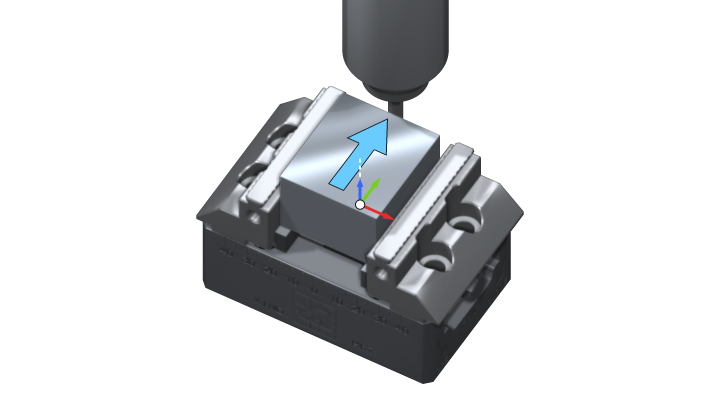
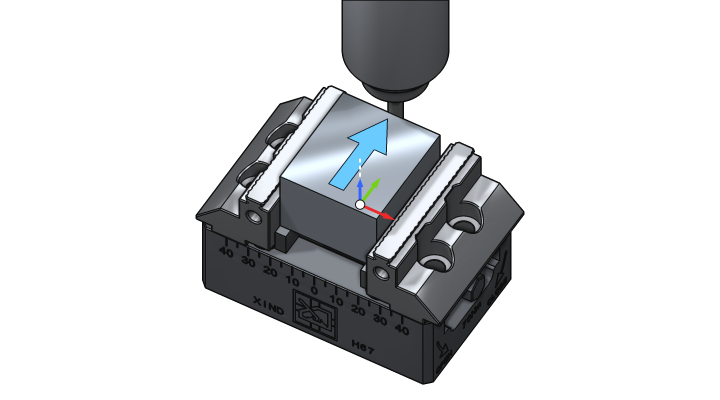
VISE STOP renders: Fusion-style black edge lines
Visible sharp mesh edges (>30 deg) and silhouettes drawn as crisp black lines,
like Fusion's visible-edges style; engravings now read. Images regenerated.

Claude-Session: https://claude.ai/code/session_014oRYSyCokBsp7VNRGXsHZM

diff --git a/tools/vise_render/render.py b/tools/vise_render/render.py
@@ -106,6 +106,40 @@ def smooth_normals(tris, crease_deg=35.0):
     return corner.reshape(-1, 3, 3), fn_u
 
 
+def feature_edges(tris, angle_deg=30.0):
+    """Edges whose two faces meet at more than angle_deg, plus open edges. Returns (E, 2, 3)."""
+    fn = np.cross(tris[:, 1] - tris[:, 0], tris[:, 2] - tris[:, 0])
+    fn = fn / np.maximum(np.linalg.norm(fn, axis=1, keepdims=True), 1e-12)
+    verts = tris.reshape(-1, 3)
+    key = np.round(verts * 1e3).astype(np.int64)
+    _, vid = np.unique(key, axis=0, return_inverse=True)
+    vid = vid.reshape(-1, 3)
+    e = np.concatenate([vid[:, [0, 1]], vid[:, [1, 2]], vid[:, [2, 0]]])
+    face = np.tile(np.arange(len(tris)), 3)
+    e.sort(axis=1)
+    order = np.lexsort((e[:, 1], e[:, 0]))
+    e, face = e[order], face[order]
+    same = np.all(e[1:] == e[:-1], axis=1)
+    keep = []
+    # pairs of faces sharing an edge
+    i_pair = np.nonzero(same)[0]
+    cosang = (fn[face[i_pair]] * fn[face[i_pair + 1]]).sum(1)
+    sharp = i_pair[cosang < np.cos(np.radians(angle_deg))]
+    keep.append(sharp)
+    # open edges: not part of any pair
+    in_pair = np.zeros(len(e), bool)
+    in_pair[i_pair] = True
+    in_pair[i_pair + 1] = True
+    keep.append(np.nonzero(~in_pair)[0])
+    idx = np.concatenate(keep)
+    # look up coordinates: first occurrence of each vertex id
+    first = np.zeros(vid.max() + 1, np.int64)
+    first[vid.reshape(-1)[::-1]] = np.arange(verts.shape[0])[::-1]
+    p0 = verts[first[e[idx, 0]]]
+    p1 = verts[first[e[idx, 1]]]
+    return np.stack([p0, p1], 1)
+
+
 # ----------------------------------------------------------------------------- camera
 
 class Ortho:
@@ -213,7 +247,8 @@ def _env(r):
 
 
 def render(objects, cam, size=(760, 440), ss=3, light_dir=(-0.45, -0.35, 0.82),
-           outline=0.35, ao_strength=0.45, shadow=True, fit=None, margin=0.06, ground=None):
+           outline=0.35, ao_strength=0.45, shadow=True, fit=None, margin=0.06, ground=None,
+           lines=True, line_px=1.4, line_angle=30.0):
     """objects: list of (tris, Material). Returns the supersampled RGBA image and the camera.
 
     fit: list of tris arrays the camera frames (default: everything)."""
@@ -298,20 +333,39 @@ def render(objects, cam, size=(760, 440), ss=3, light_dir=(-0.45, -0.35, 0.82),
     col = col * ao[..., None] + (spec * shadow_f)[..., None]
     col = col * (1 - emis[..., None]) + base * emis[..., None]
 
-    # CAD-style soft outlines on depth / normal / object breaks
-    if outline > 0:
-        dz = np.where(mask, depth, depth[mask].max() + 50)
-        gx = ndimage.sobel(dz, 1)
-        gy = ndimage.sobel(dz, 0)
-        dg = np.hypot(gx, gy)
-        edge_d = dg > 3.5 / cam.scale * 8
-        nx = [ndimage.sobel(n[..., k], 1) ** 2 + ndimage.sobel(n[..., k], 0) ** 2 for k in range(3)]
-        edge_n = np.sqrt(sum(nx)) > 2.2
-        edge_i = (ndimage.maximum_filter(ibuf, 3) != ndimage.minimum_filter(ibuf, 3))
-        edge = (edge_d | edge_n | edge_i).astype(float)
-        edge = ndimage.gaussian_filter(edge, 0.5 * ss)
-        col = col * (1 - outline * np.clip(edge, 0, 1)[..., None] * 0.6)
-
+    # Fusion-style black lines: visible sharp mesh edges + silhouettes / object breaks
+    if lines:
+        line = np.zeros((H, W), bool)
+        E = feature_edges(all_tris, line_angle)
+        if len(E):
+            Ps = cam.project(E)
+            seg_len = np.linalg.norm(Ps[:, 1, :2] - Ps[:, 0, :2], axis=1)
+            nsamp = np.maximum(2, np.ceil(seg_len)).astype(int)
+            tot = nsamp.sum()
+            rep = np.repeat(np.arange(len(E)), nsamp)
+            start = np.repeat(np.cumsum(nsamp) - nsamp, nsamp)
+            t = (np.arange(tot) - start) / np.maximum(np.repeat(nsamp, nsamp) - 1, 1)
+            pts = Ps[rep, 0] + (Ps[rep, 1] - Ps[rep, 0]) * t[:, None]
+            xi = np.clip(pts[:, 0].astype(int), 0, W - 1)
+            yi = np.clip(pts[:, 1].astype(int), 0, H - 1)
+            # visible if not behind the surface there (check a small neighbourhood)
+            dmin = ndimage.minimum_filter(np.where(mask, depth, np.inf), size=3)
+            dmax = ndimage.maximum_filter(np.where(mask, depth, -np.inf), size=3)
+            bias = 0.25
+            vis = (pts[:, 2] <= dmax[yi, xi] + bias) & (pts[:, 2] <= dmin[yi, xi] + 1.5) \
+                | ~np.isfinite(dmin[yi, xi])
+            line[yi[vis], xi[vis]] = True
+        # silhouettes and object-to-object breaks from the buffers
+        sil = ndimage.binary_dilation(mask) & ~ndimage.binary_erosion(mask)
+        brk = (ndimage.maximum_filter(ibuf, 2) != ndimage.minimum_filter(ibuf, 2)) & mask
+        dz = np.where(mask, depth, 1e6)
+        jump = (ndimage.maximum_filter(dz, 2) - ndimage.minimum_filter(dz, 2)) > 3.0
+        line |= sil | brk | (jump & mask)
+        r_ = max(1, int(round(line_px * ss / 2)))
+        line = ndimage.binary_dilation(line, iterations=r_ - 1) if r_ > 1 else line
+        line_f = line.astype(float)
+        col = col * (1 - 0.92 * line_f[..., None]) + 0.03 * line_f[..., None]
+        mask = mask | line
     col = np.clip(col, 0, 1)
     rgba_extra = None
     if ground is not None and shadow:

diff --git a/docs/VISE_STOP.md b/docs/VISE_STOP.md
@@ -120,7 +120,8 @@ o<vise_stop_retract> call
 
 ## Regenerating the pictures
 
-`tools/vise_render/` is a small numpy renderer (needs numpy, scipy and
+`tools/vise_render/` is a small numpy renderer with Fusion-style black edge
+lines (sharp mesh edges and silhouettes). It needs numpy, scipy and
 Pillow). For a different vise, export the vise body and the jaws from Fusion:
 right-click the component → **Save As Mesh** → STL (Binary), mm. The clamp
 must run along the mesh's X and the jaws along its Y. Fusion writes each
